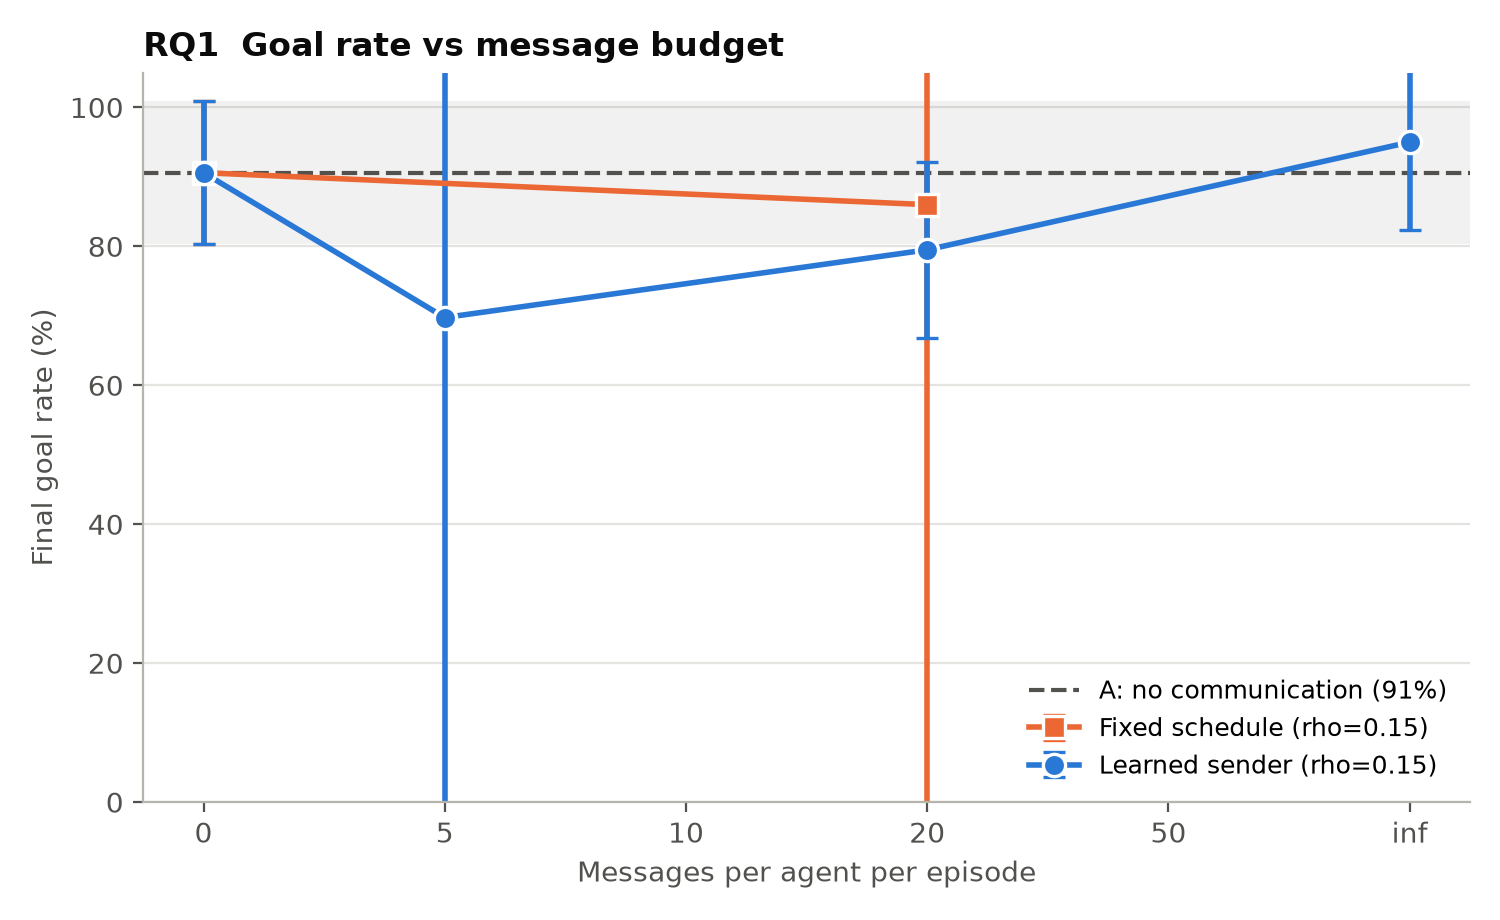
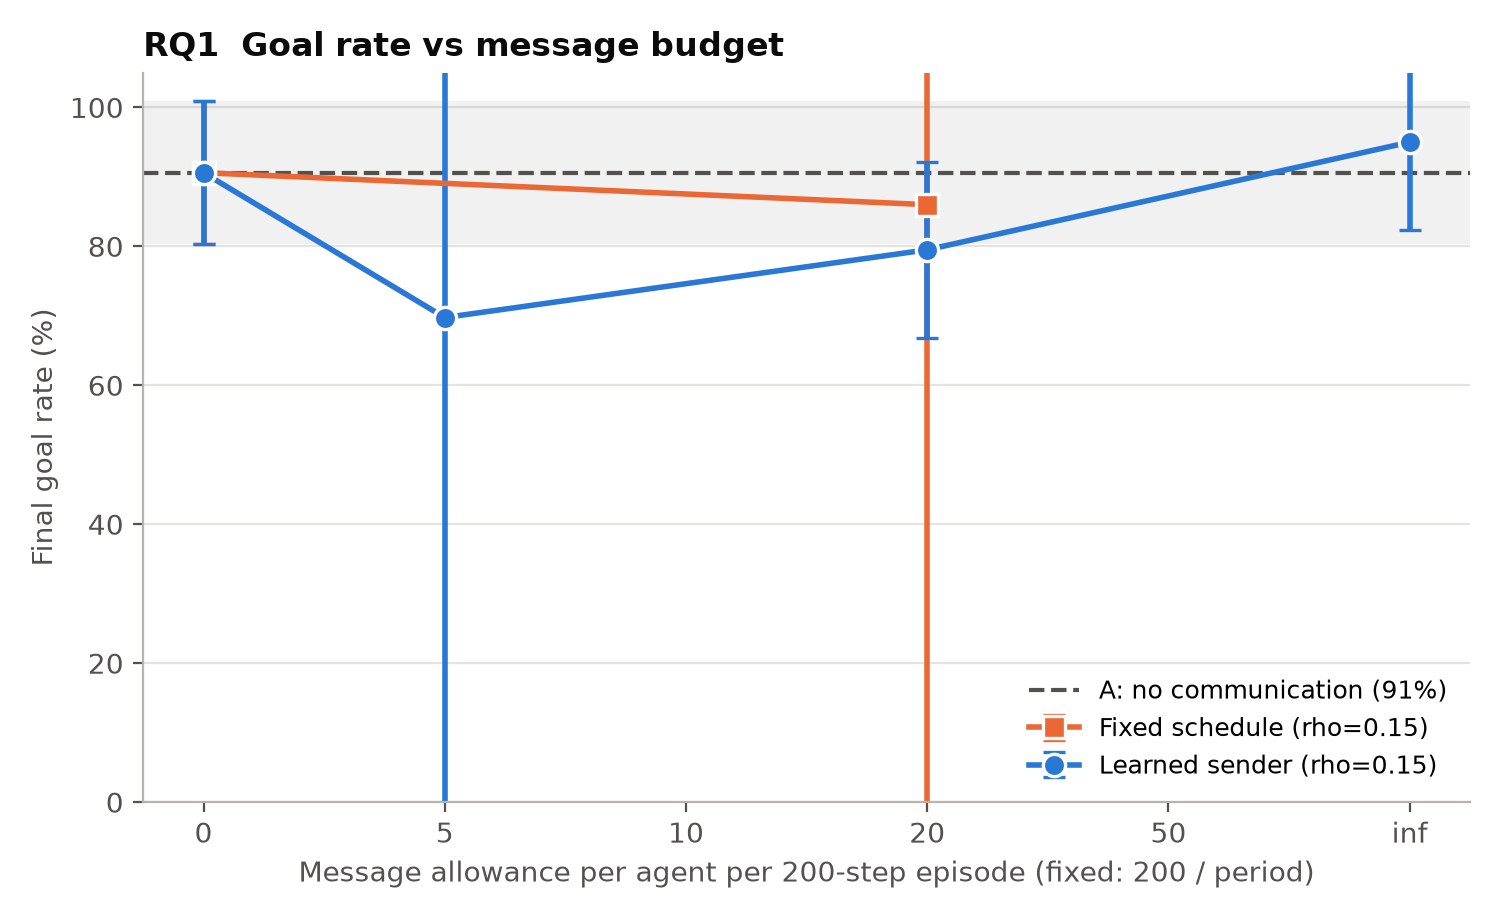
Regenerate sweep_final report with delay labels

Changed region(s): [[0.184, 0.913, 0.8893, 0.9739]]

diff --git a/checkpoints/sweep_final/results.md b/checkpoints/sweep_final/results.md
@@ -23,7 +23,7 @@ Final greedy evaluation on 200 held-out episodes per seed. Goal rate = share of 
 | Setting | Seeds | Goal rate % (95% CI) | Δ vs A (pp) | p | Steps to goal | Msgs/agent | Goal % silenced |
 |---|---|---|---|---|---|---|---|
 | A: no communication | 5 | 90.6 ± 10.3 | - | - | 67 | 0.0 | - |
-| B: learned, unlimited | 2 | 95.0 ± 12.7 | +4.4 | 0.308 | 58 | 25.3 | 65.5 |
+| B: learned, unlimited, delay 0 | 2 | 95.0 ± 12.7 | +4.4 | 0.308 | 58 | 25.3 | 65.5 |
 
 ## RQ3: observability
 
